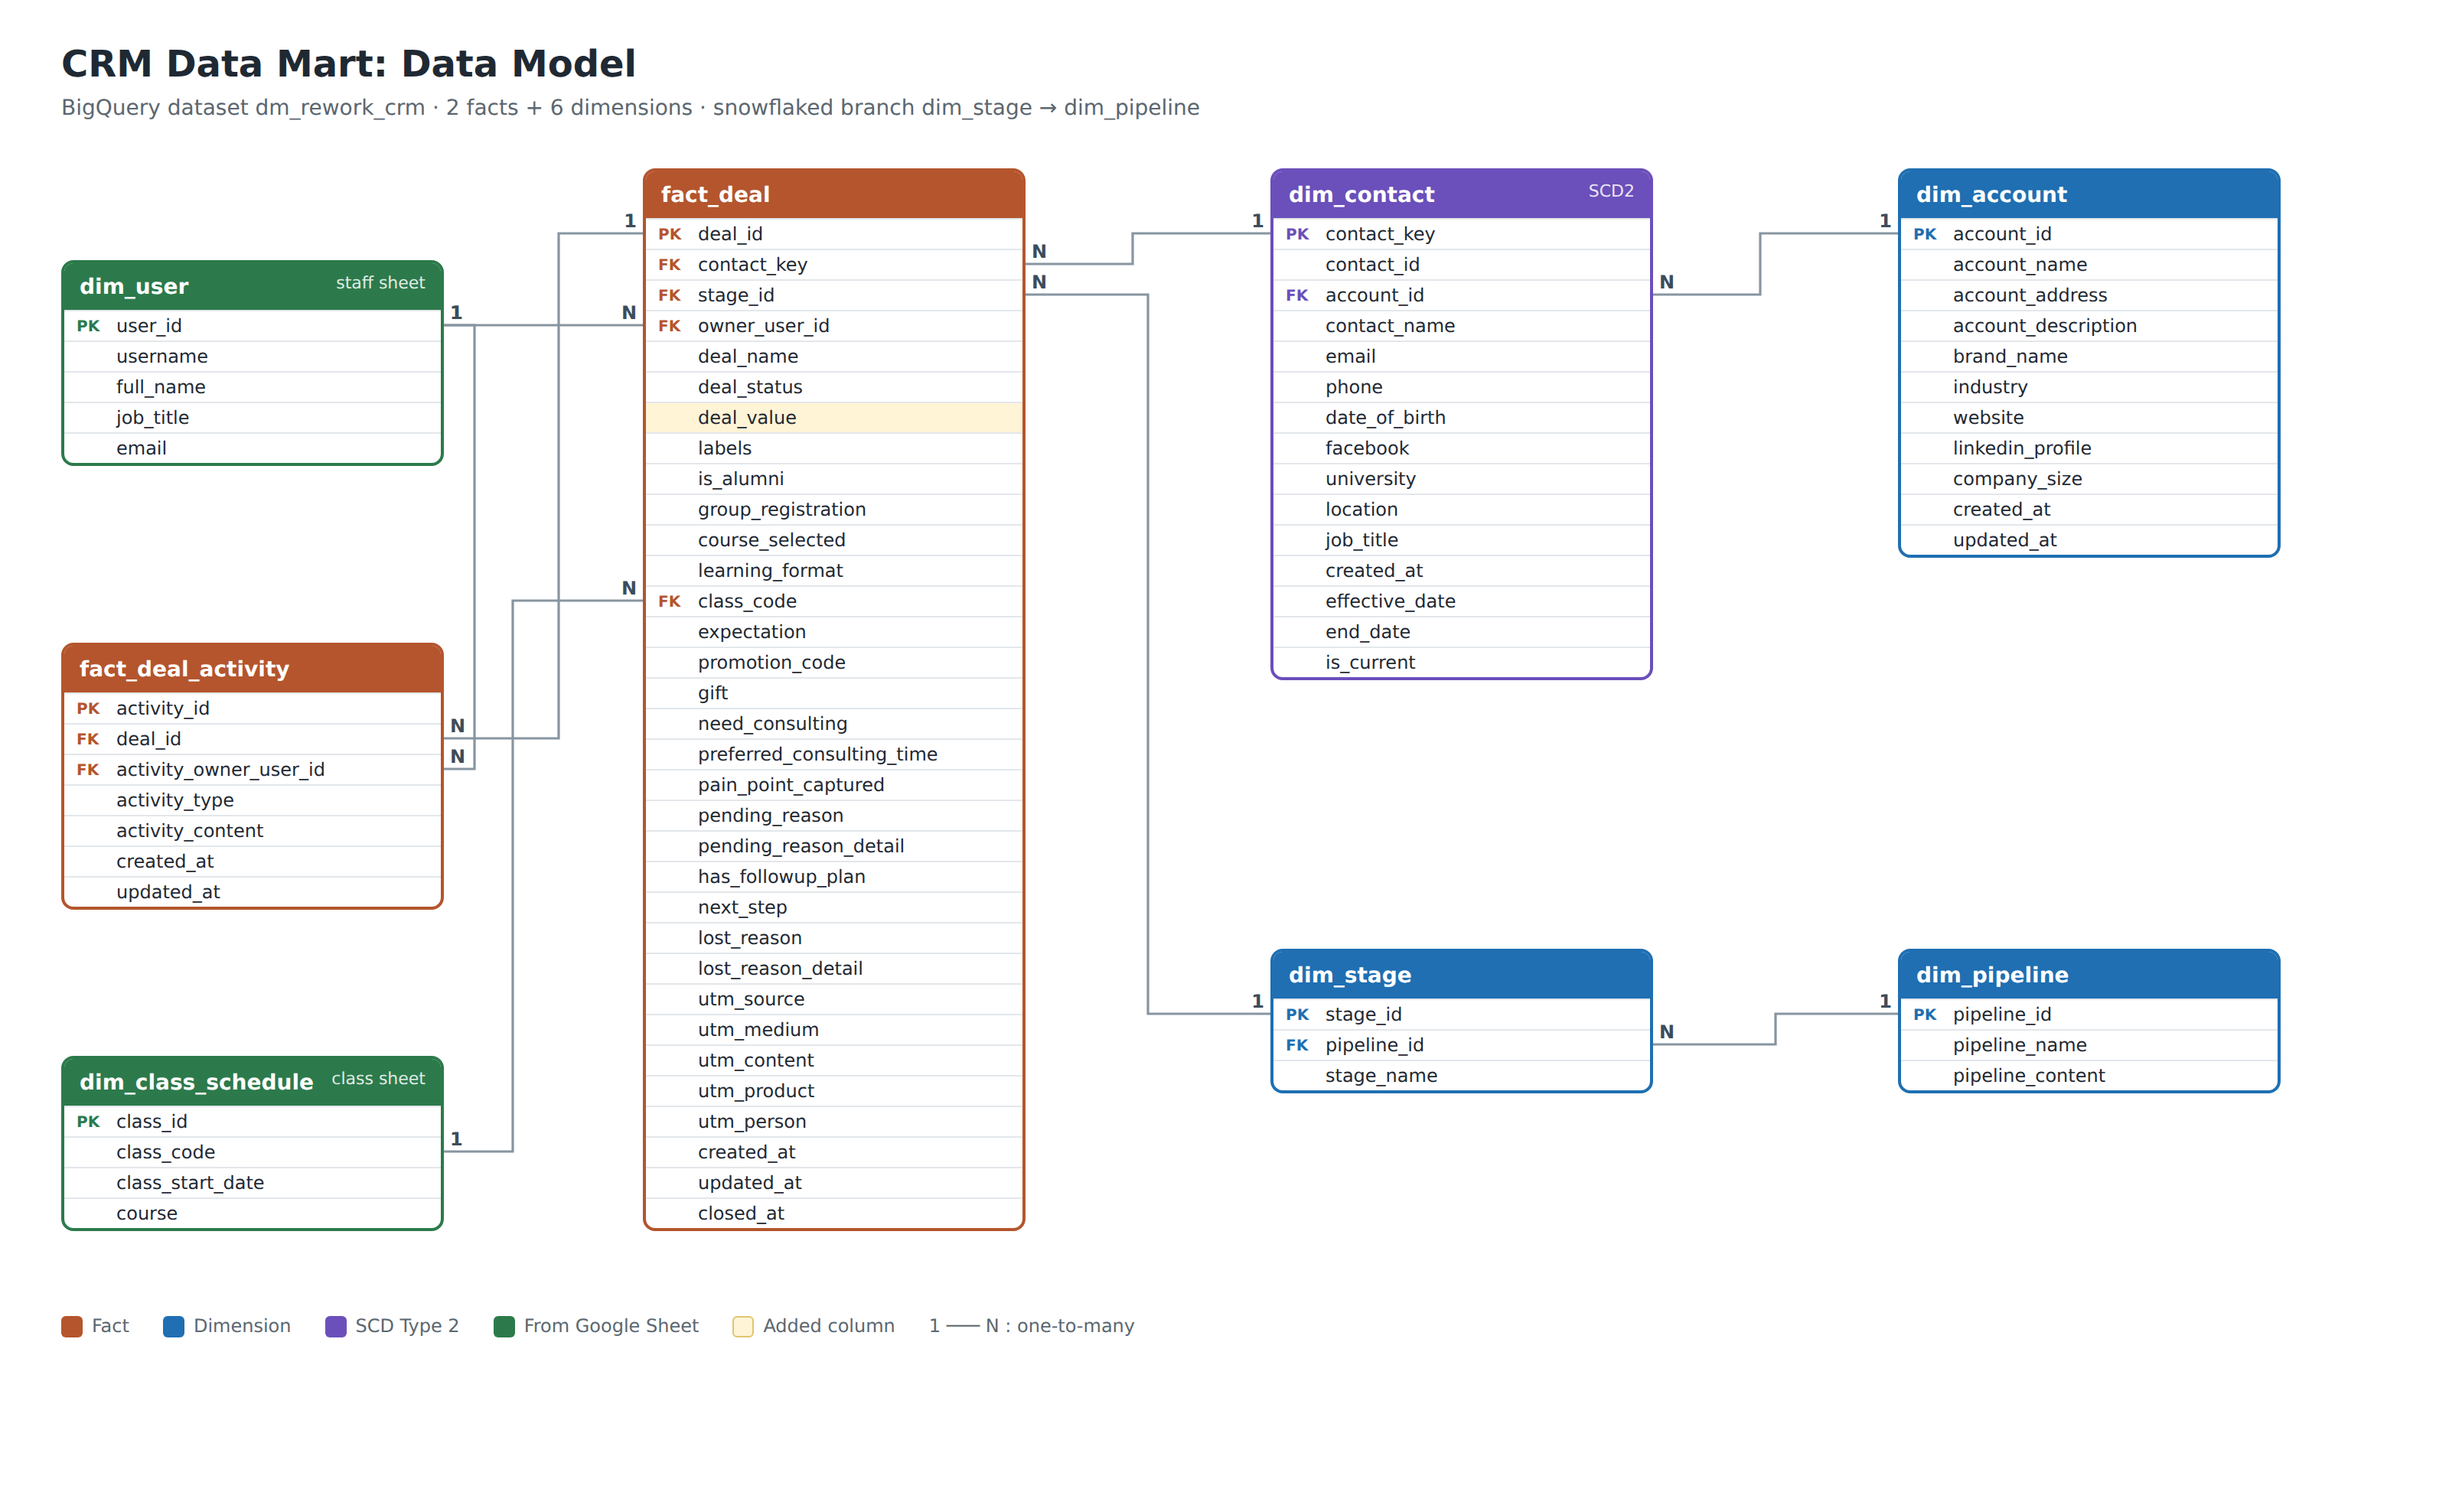
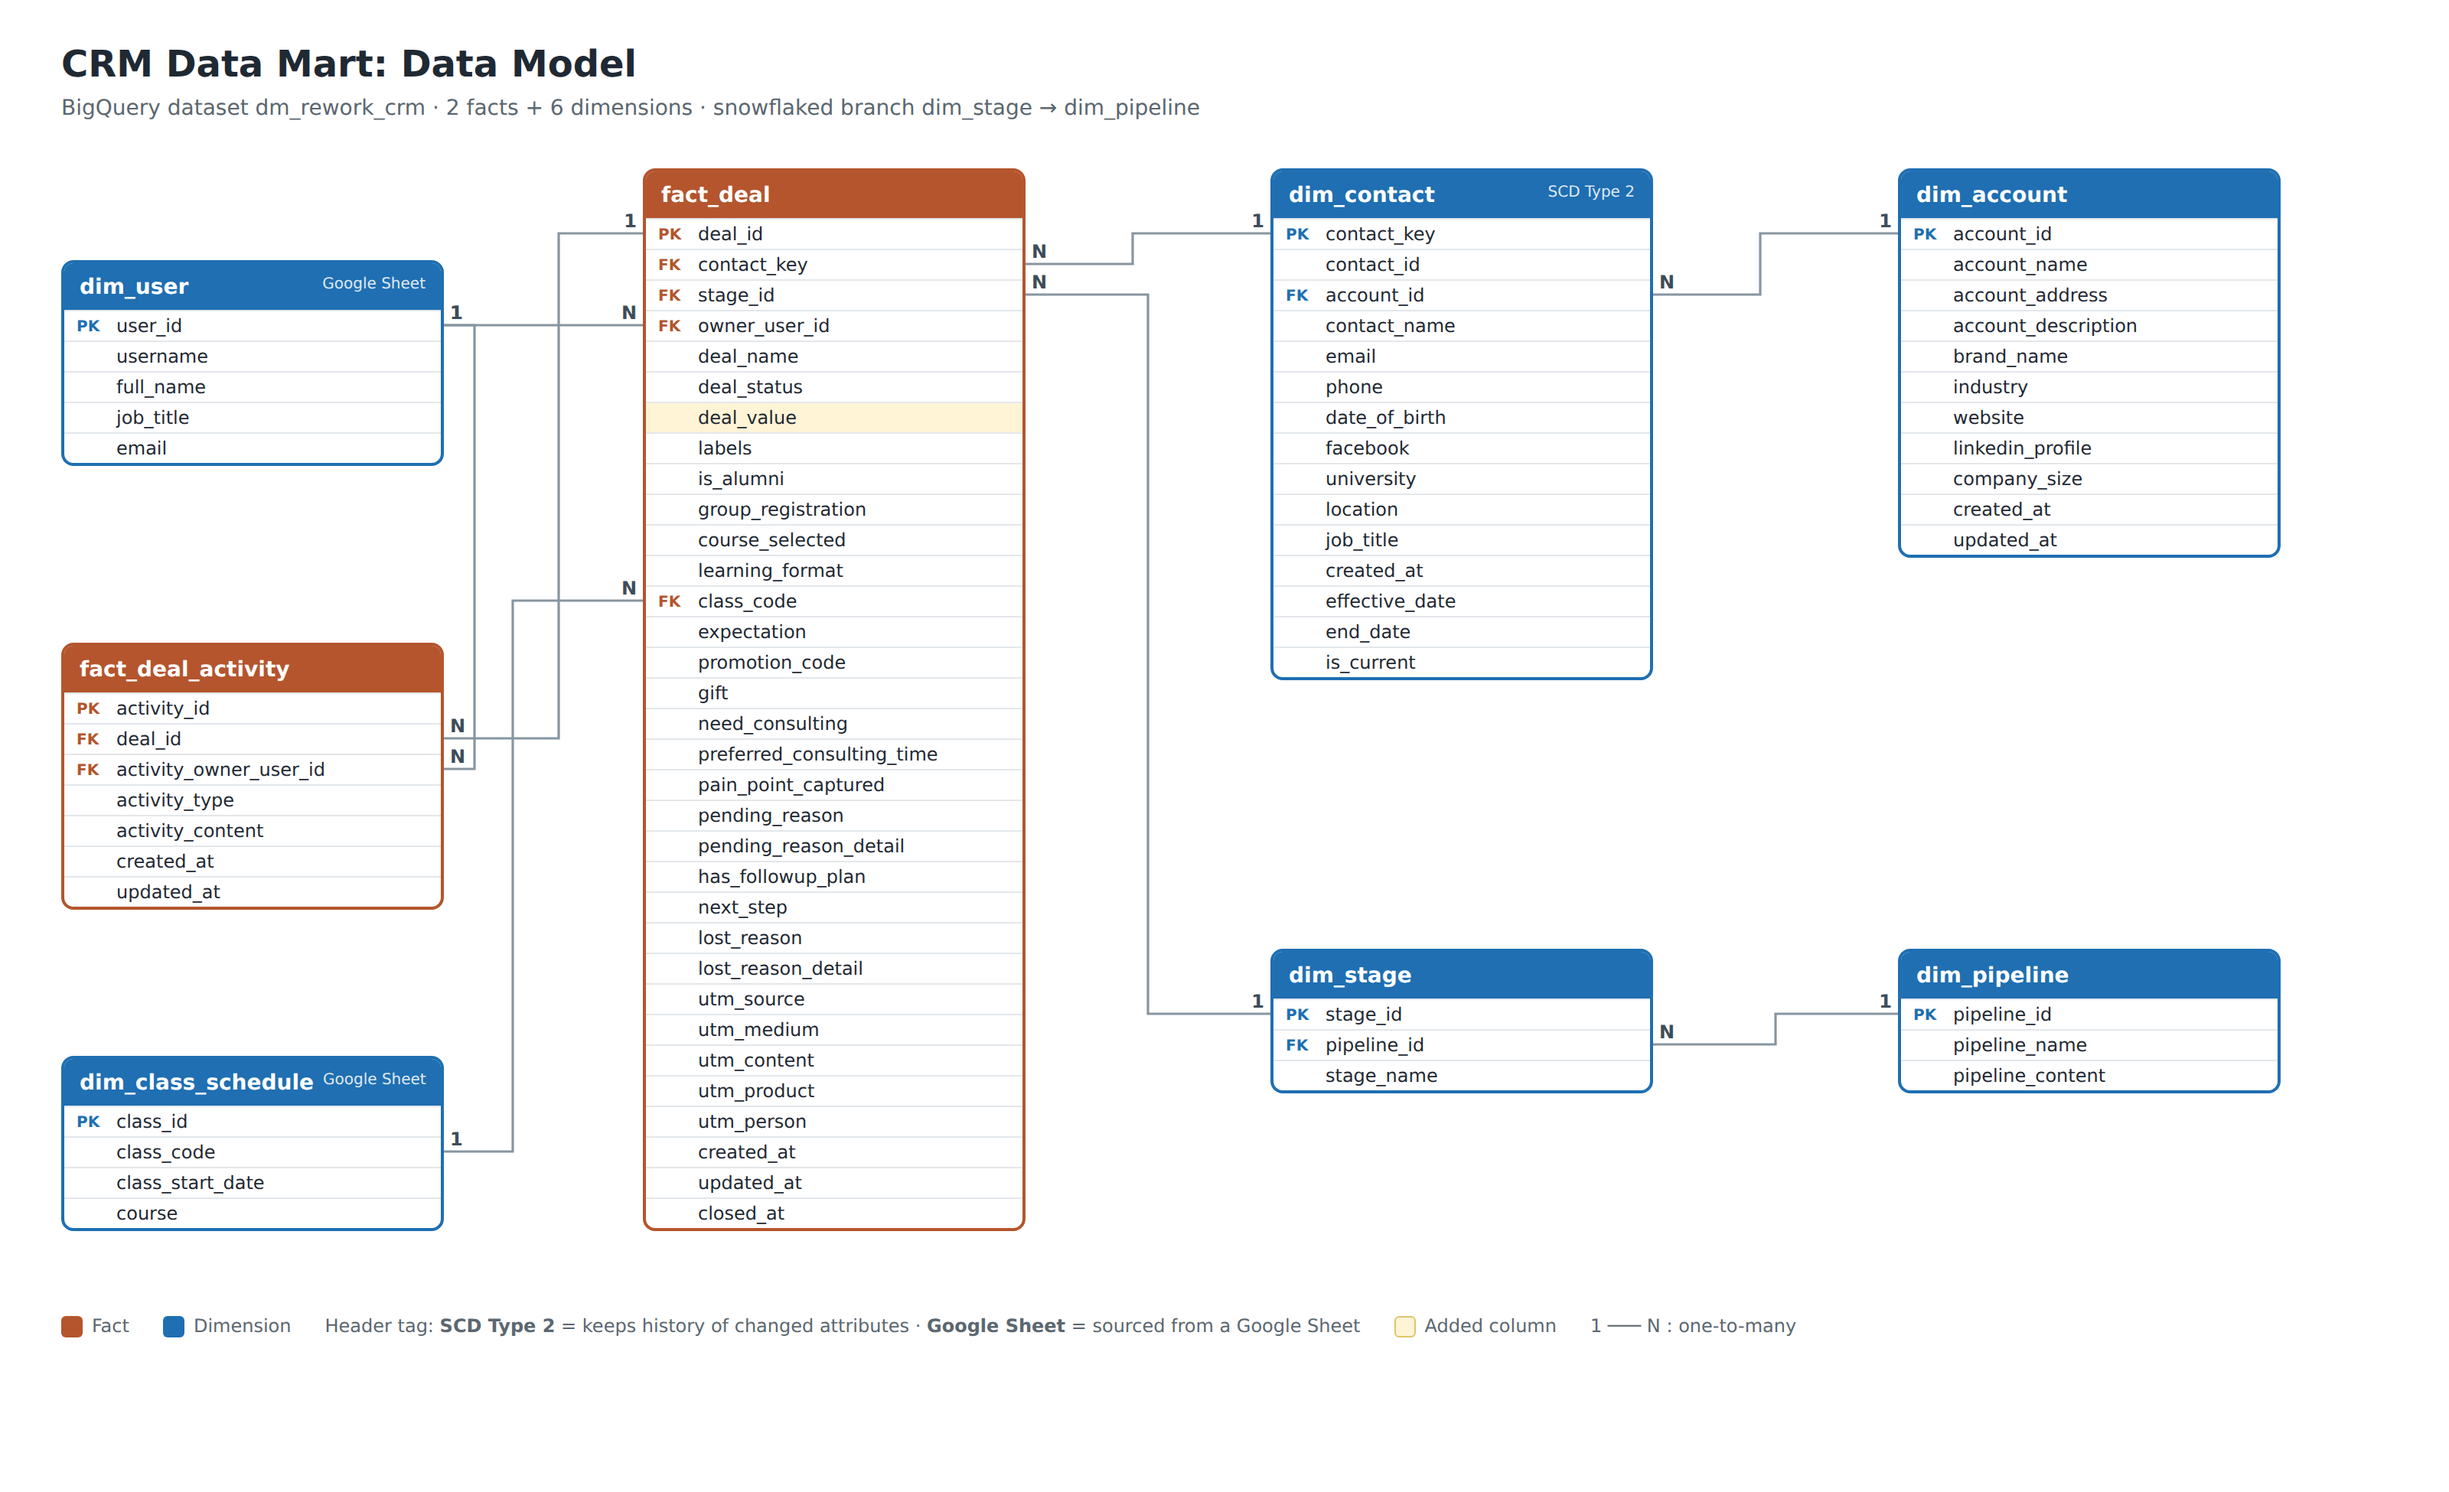
ERD: color by table type only; source and SCD2 shown as header tags
Claude-Session: https://claude.ai/code/session_01RJTQ4eRzCiHnHntdpycA9C

diff --git a/docs/data-model.html b/docs/data-model.html
@@ -6,7 +6,7 @@ h1{position:absolute;left:40px;top:28px;font-size:24px}
 .sub{position:absolute;left:40px;top:62px;font-size:14px;color:#5b6770}
 .t{position:absolute;width:250px;border:2px solid var(--c);border-radius:8px;background:#fff;overflow:hidden;z-index:2}
 .t h2{font-size:14px;padding:7px 10px;background:var(--c);color:#fff;display:flex;justify-content:space-between}
-.t h2 small{font-weight:400;opacity:.85;font-size:11px}
+.t h2 small{font-weight:400;opacity:.85;font-size:10px;white-space:nowrap;margin-left:6px}
 .r{display:flex;font-size:12px;line-height:19px;border-top:1px solid #e3e7eb;padding:0 8px}
 .r b{width:26px;font-size:10px;color:var(--c);flex:none}
 .r.new{background:#fff4d6}
@@ -22,18 +22,17 @@ svg{position:absolute;left:0;top:0;z-index:1}
 <div class="legend">
  <div><span style="background:#b4552d"></span>Fact</div>
  <div><span style="background:#1f6fb2"></span>Dimension</div>
- <div><span style="background:#6b4fbb"></span>SCD Type 2</div>
- <div><span style="background:#2c7a4b"></span>From Google Sheet</div>
+ <div>Header tag: <b>SCD Type 2</b> = keeps history of changed attributes · <b>Google Sheet</b> = sourced from a Google Sheet</div>
  <div><span style="background:#fff4d6;border:1px solid #e0c56e"></span>Added column</div>
  <div>1 ─── N : one-to-many</div>
 </div>
 <script>
 const T = {
- dim_user:{cls:'sheet',x:40,y:170,note:'staff sheet',cols:[['PK','user_id'],'username','full_name','job_title','email']},
+ dim_user:{cls:'dim',x:40,y:170,note:'Google Sheet',cols:[['PK','user_id'],'username','full_name','job_title','email']},
  fact_deal_activity:{cls:'fact',x:40,y:420,cols:[['PK','activity_id'],['FK','deal_id'],['FK','activity_owner_user_id'],'activity_type','activity_content','created_at','updated_at']},
- dim_class_schedule:{cls:'sheet',x:40,y:690,note:'class sheet',cols:[['PK','class_id'],'class_code','class_start_date','course']},
+ dim_class_schedule:{cls:'dim',x:40,y:690,note:'Google Sheet',cols:[['PK','class_id'],'class_code','class_start_date','course']},
  fact_deal:{cls:'fact',x:420,y:110,cols:[['PK','deal_id'],['FK','contact_key'],['FK','stage_id'],['FK','owner_user_id'],'deal_name','deal_status',['','deal_value','new'],'labels','is_alumni','group_registration','course_selected','learning_format',['FK','class_code'],'expectation','promotion_code','gift','need_consulting','preferred_consulting_time','pain_point_captured','pending_reason','pending_reason_detail','has_followup_plan','next_step','lost_reason','lost_reason_detail','utm_source','utm_medium','utm_content','utm_product','utm_person','created_at','updated_at','closed_at']},
- dim_contact:{cls:'scd',x:830,y:110,note:'SCD2',cols:[['PK','contact_key'],'contact_id',['FK','account_id'],'contact_name','email','phone','date_of_birth','facebook','university','location','job_title','created_at','effective_date','end_date','is_current']},
+ dim_contact:{cls:'dim',x:830,y:110,note:'SCD Type 2',cols:[['PK','contact_key'],'contact_id',['FK','account_id'],'contact_name','email','phone','date_of_birth','facebook','university','location','job_title','created_at','effective_date','end_date','is_current']},
  dim_account:{cls:'dim',x:1240,y:110,cols:[['PK','account_id'],'account_name','account_address','account_description','brand_name','industry','website','linkedin_profile','company_size','created_at','updated_at']},
  dim_stage:{cls:'dim',x:830,y:620,cols:[['PK','stage_id'],['FK','pipeline_id'],'stage_name']},
  dim_pipeline:{cls:'dim',x:1240,y:620,cols:[['PK','pipeline_id'],'pipeline_name','pipeline_content']},
